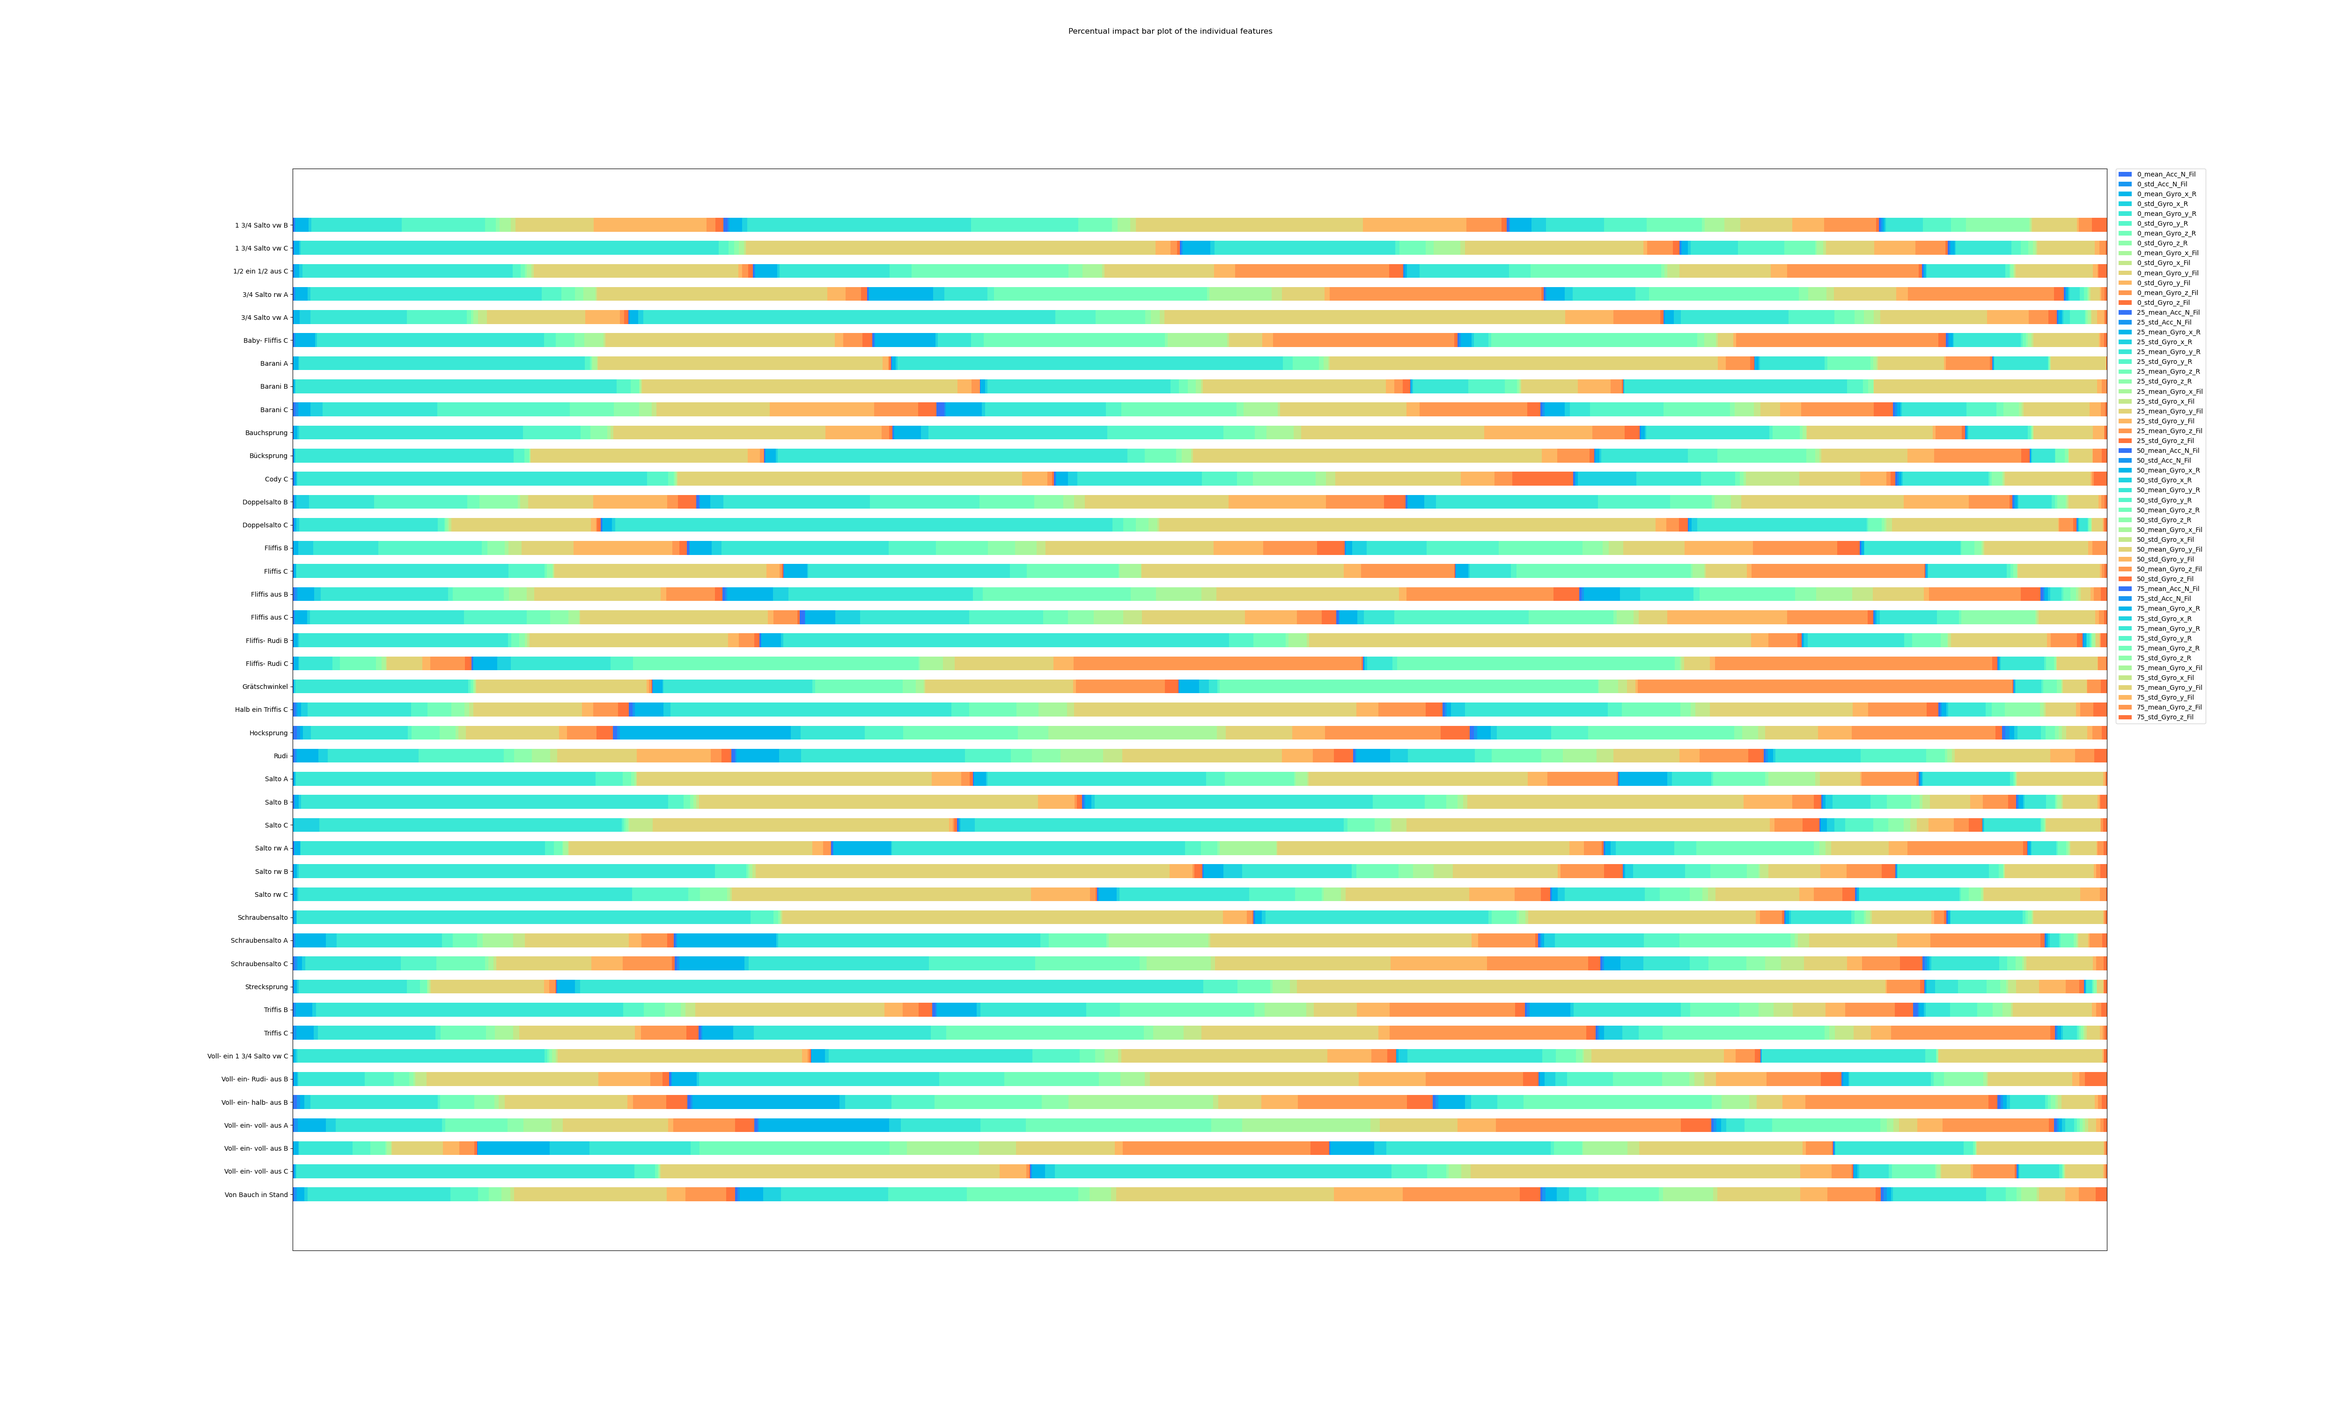
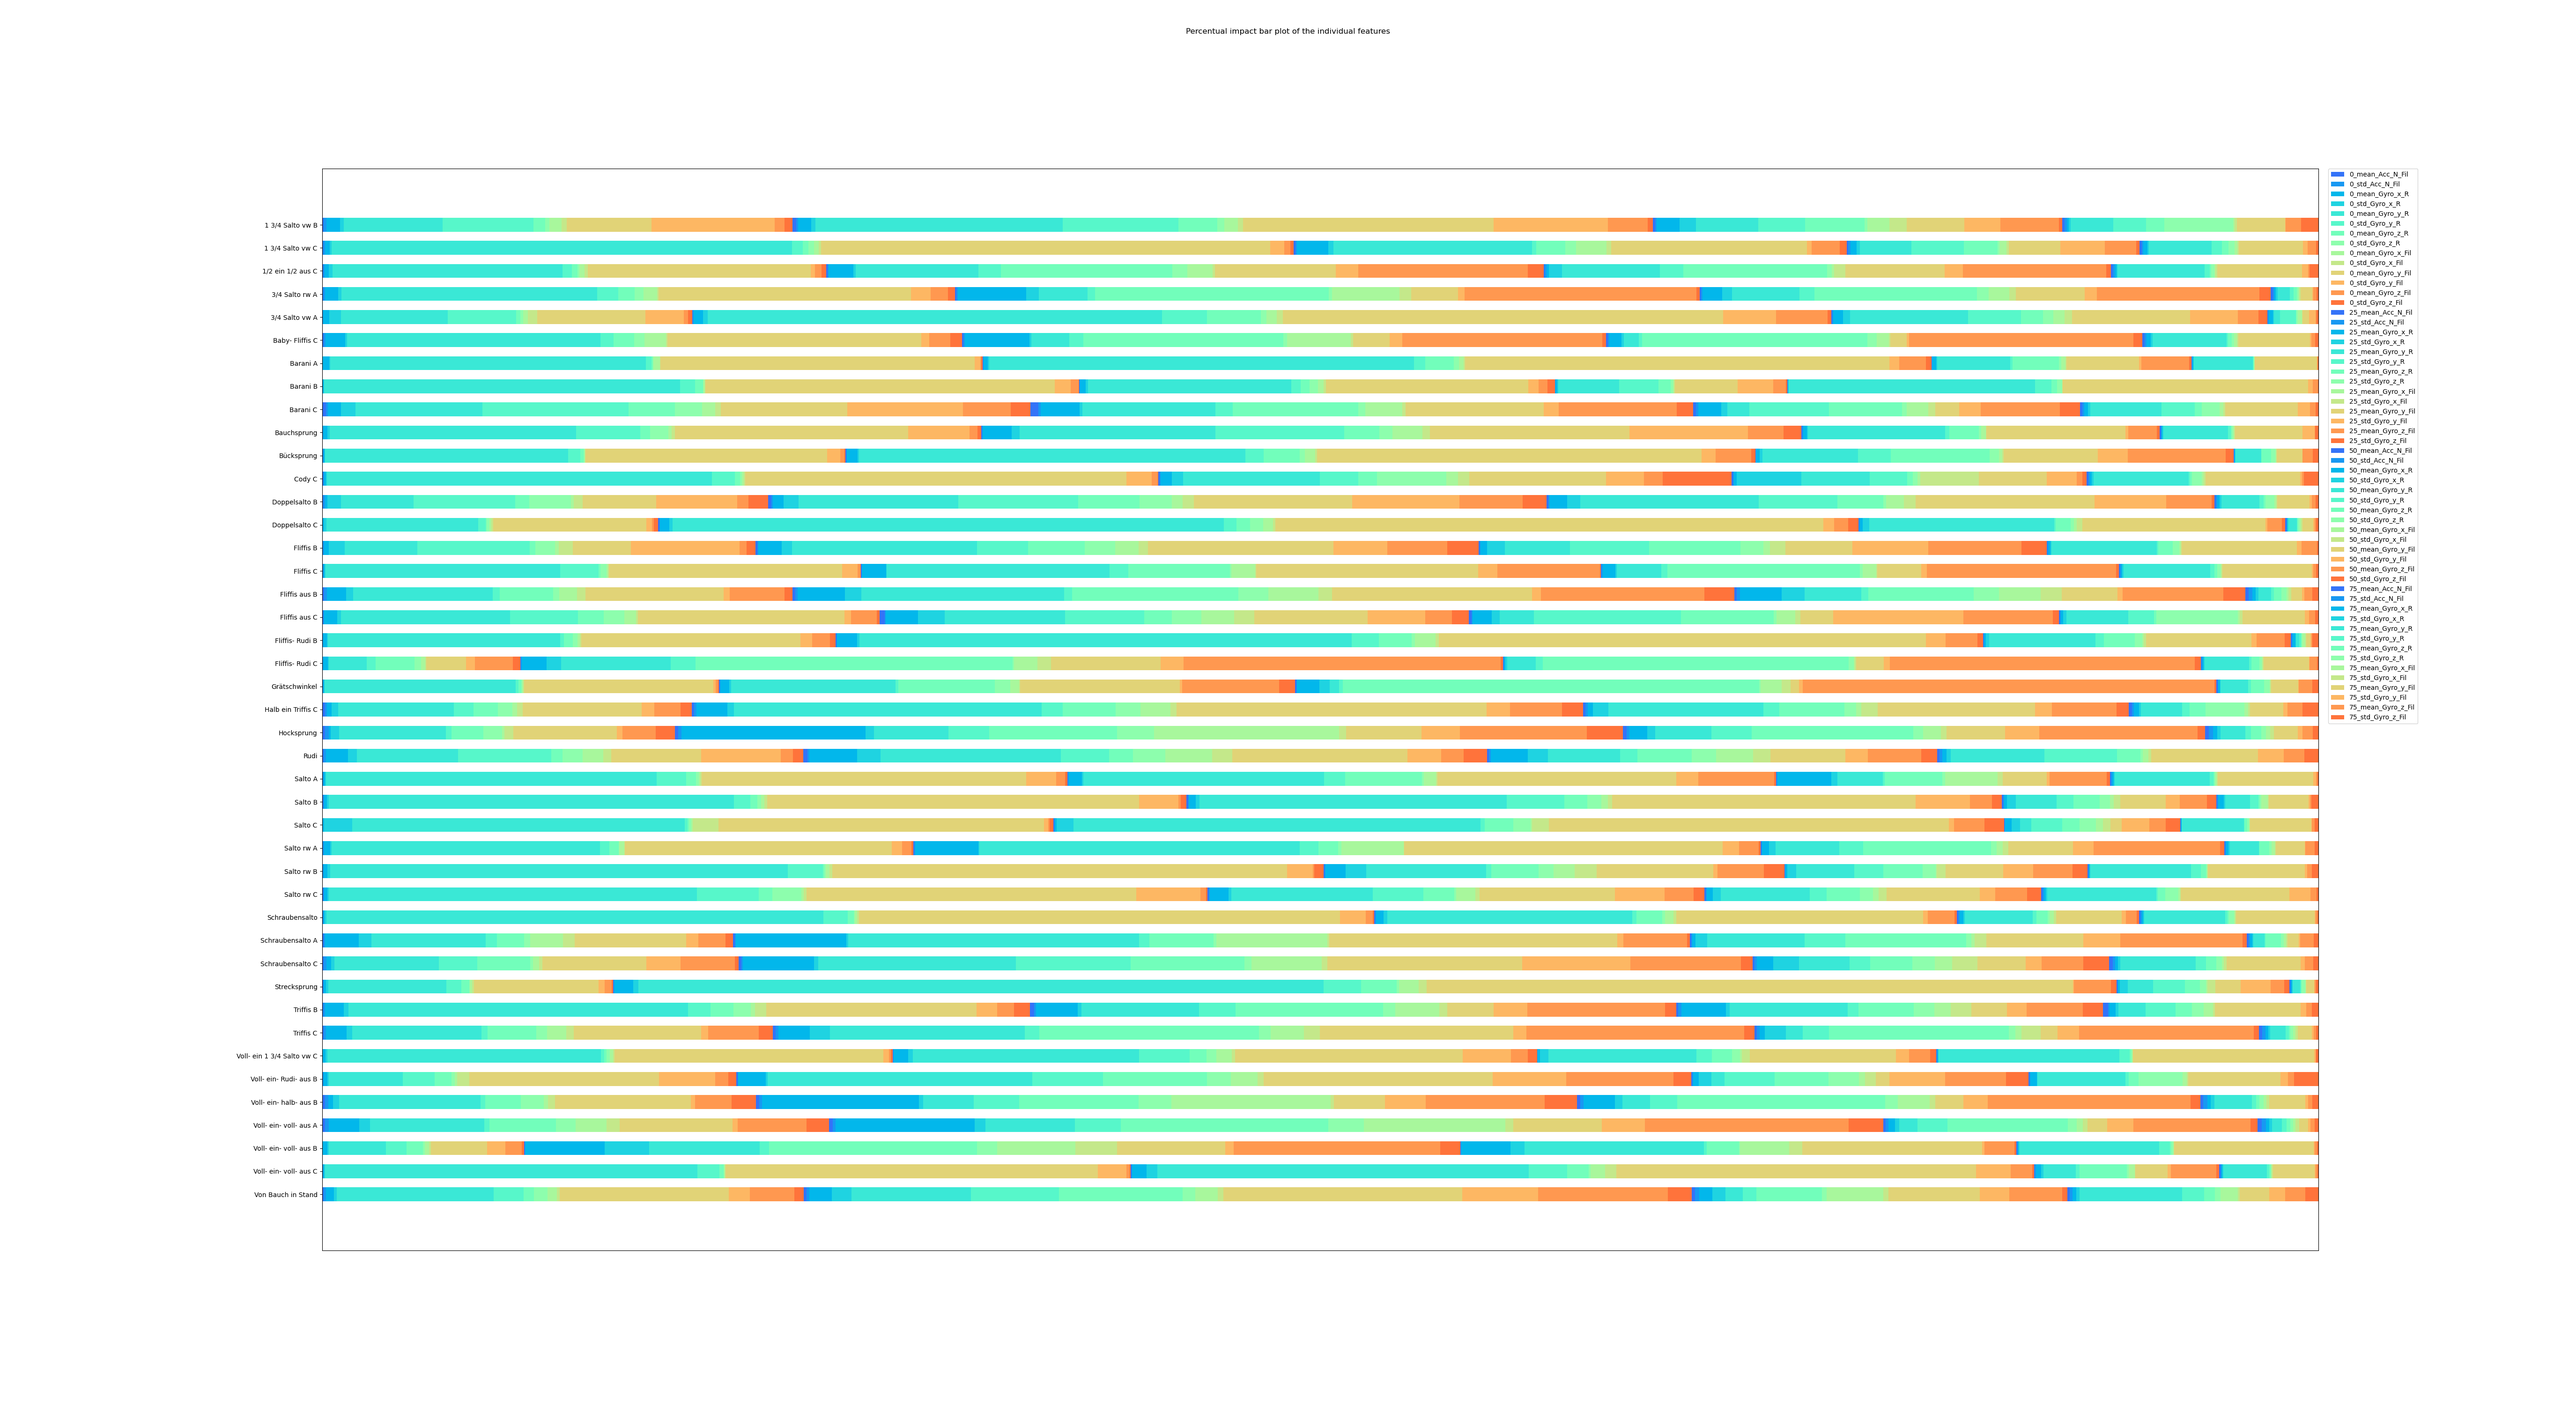
svc wo pp plots data

diff --git a/svc_gnb.py b/svc_gnb.py
@@ -320,7 +320,7 @@ def explain_model(train_data: str, test_data: str, feature_start: str, feature_e
             shaps = pickle.load(f)
             shap_values = shaps[0]
 
-    """
+
     bar_plots(shap_values, shap_x_test, shap_y_test, bar='percentual', folder=output_folder, save_data=output_folder, size=(55, 30))
     bar_plots(shap_values, shap_x_test, shap_y_test, bar='summary', folder=output_folder, save_data=output_folder, size=(55, 30))
     bar_plots(shap_values, shap_x_test, shap_y_test, save_data=output_folder,
@@ -328,7 +328,7 @@ def explain_model(train_data: str, test_data: str, feature_start: str, feature_e
               jumps=['Salto A', 'Salto B', 'Salto C', 'Salto rw A', 'Salto rw B', 'Salto rw C', 'Schraubensalto',
                      'Schraubensalto A', 'Schraubensalto C', 'Doppelsalto B', 'Doppelsalto C'],
               name='Saltos')
-    """
+
     shap.summary_plot(shap_values, shap_x_test, plot_type='bar', plot_size=(25, 20), color=ListedColormap(cmap), class_names=shap_y_test.unique(), max_display=20)
     shap.summary_plot(shap_values, shap_x_test, plot_type='bar', plot_size=(25, 20), color=ListedColormap(cmap), class_names=shap_y_test.unique(), max_display=68)
     saltoA = np.where(shap_y_test.unique() == 'Salto A')[0][0]
@@ -558,10 +558,10 @@ def jump_core_detection(classifier: str, datasets, pp_list, title, jump_length=0
 
 if __name__ == '__main__':
     drops = []
-    train = "/with_preprocessed/percentage/20/vector_percentage_mean_20_train.csv"
-    test = "/with_preprocessed/percentage/20/vector_percentage_mean_20_test.csv"
-    output_folder = 'plots/SVC/with_preprocessed/only_preprocessed/'
-    explain_model(train, test, "", "", ["DJump"], True, output_folder, "SVC", "preprocessed_vector_percentage_mean_20", False)
+    train = "/without_preprocessed/percentage/25/vector_percentage_mean_std_25_train.csv"
+    test = "/without_preprocessed/percentage/25/vector_AJ_percentage_mean_std_25.csv"
+    output_folder = 'plots/SVC/without_preprocessed/AJ/'
+    explain_model(train, test, "", "", [], False, output_folder, "SVC", "without_vector_percentage_mean_25", True)
     #datasets = ["Sprungdaten_processed/with_preprocessed/percentage/10/vector_percentage_mean_std_10"]
     #title = 'GNB with pp: percentage_mean_std_10'
     #jump_core_detection("GNB", datasets, [1, 2, 3, 4], title, 10)
